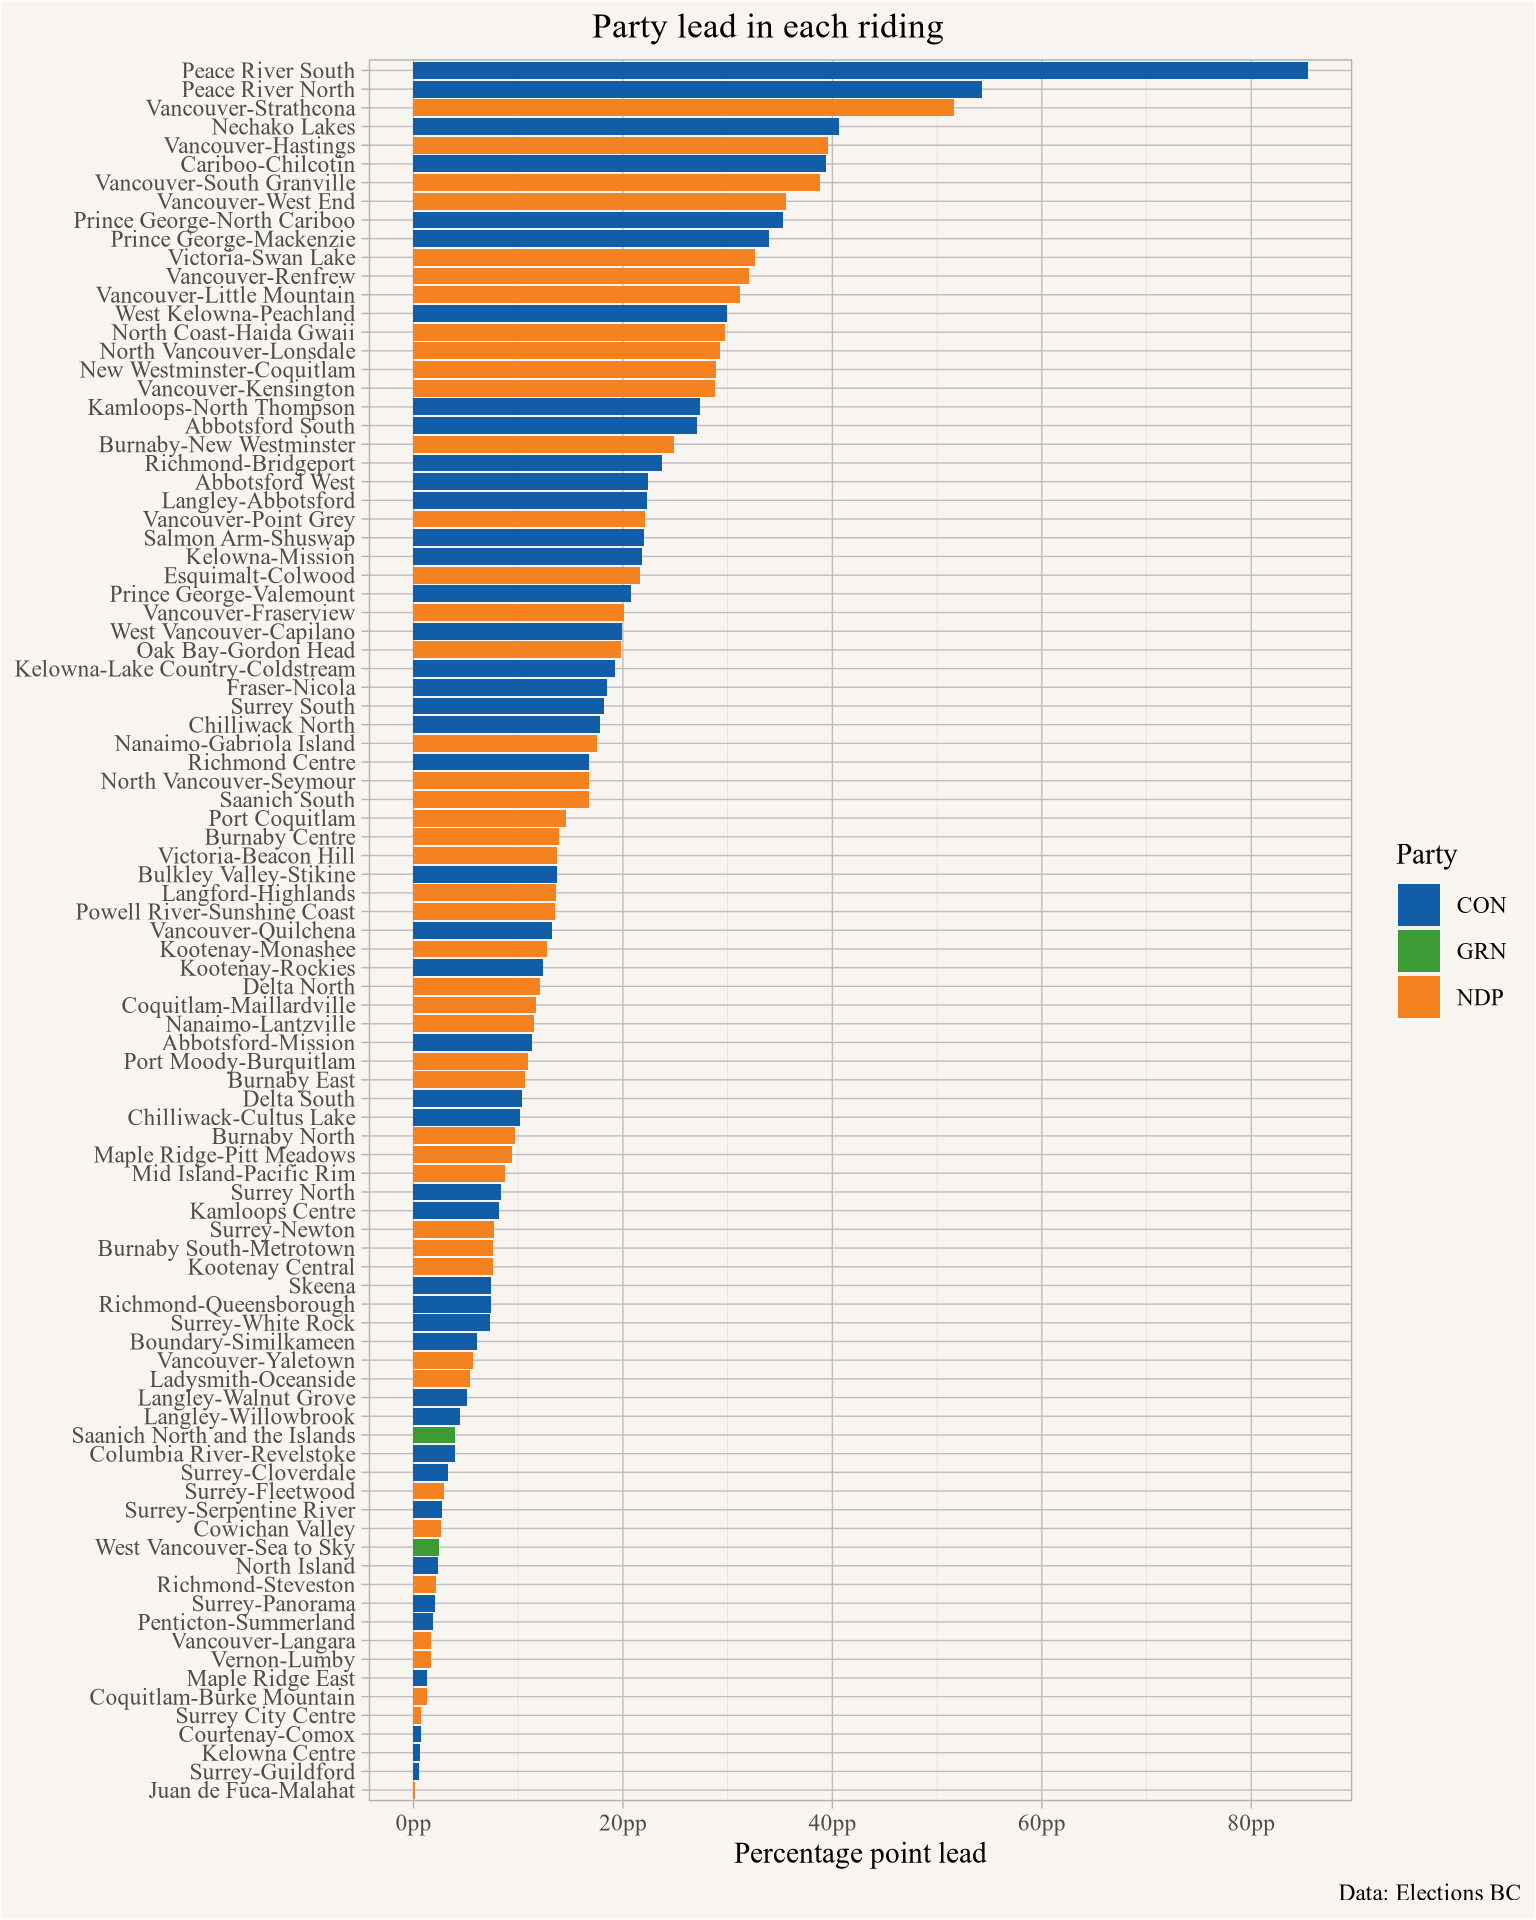
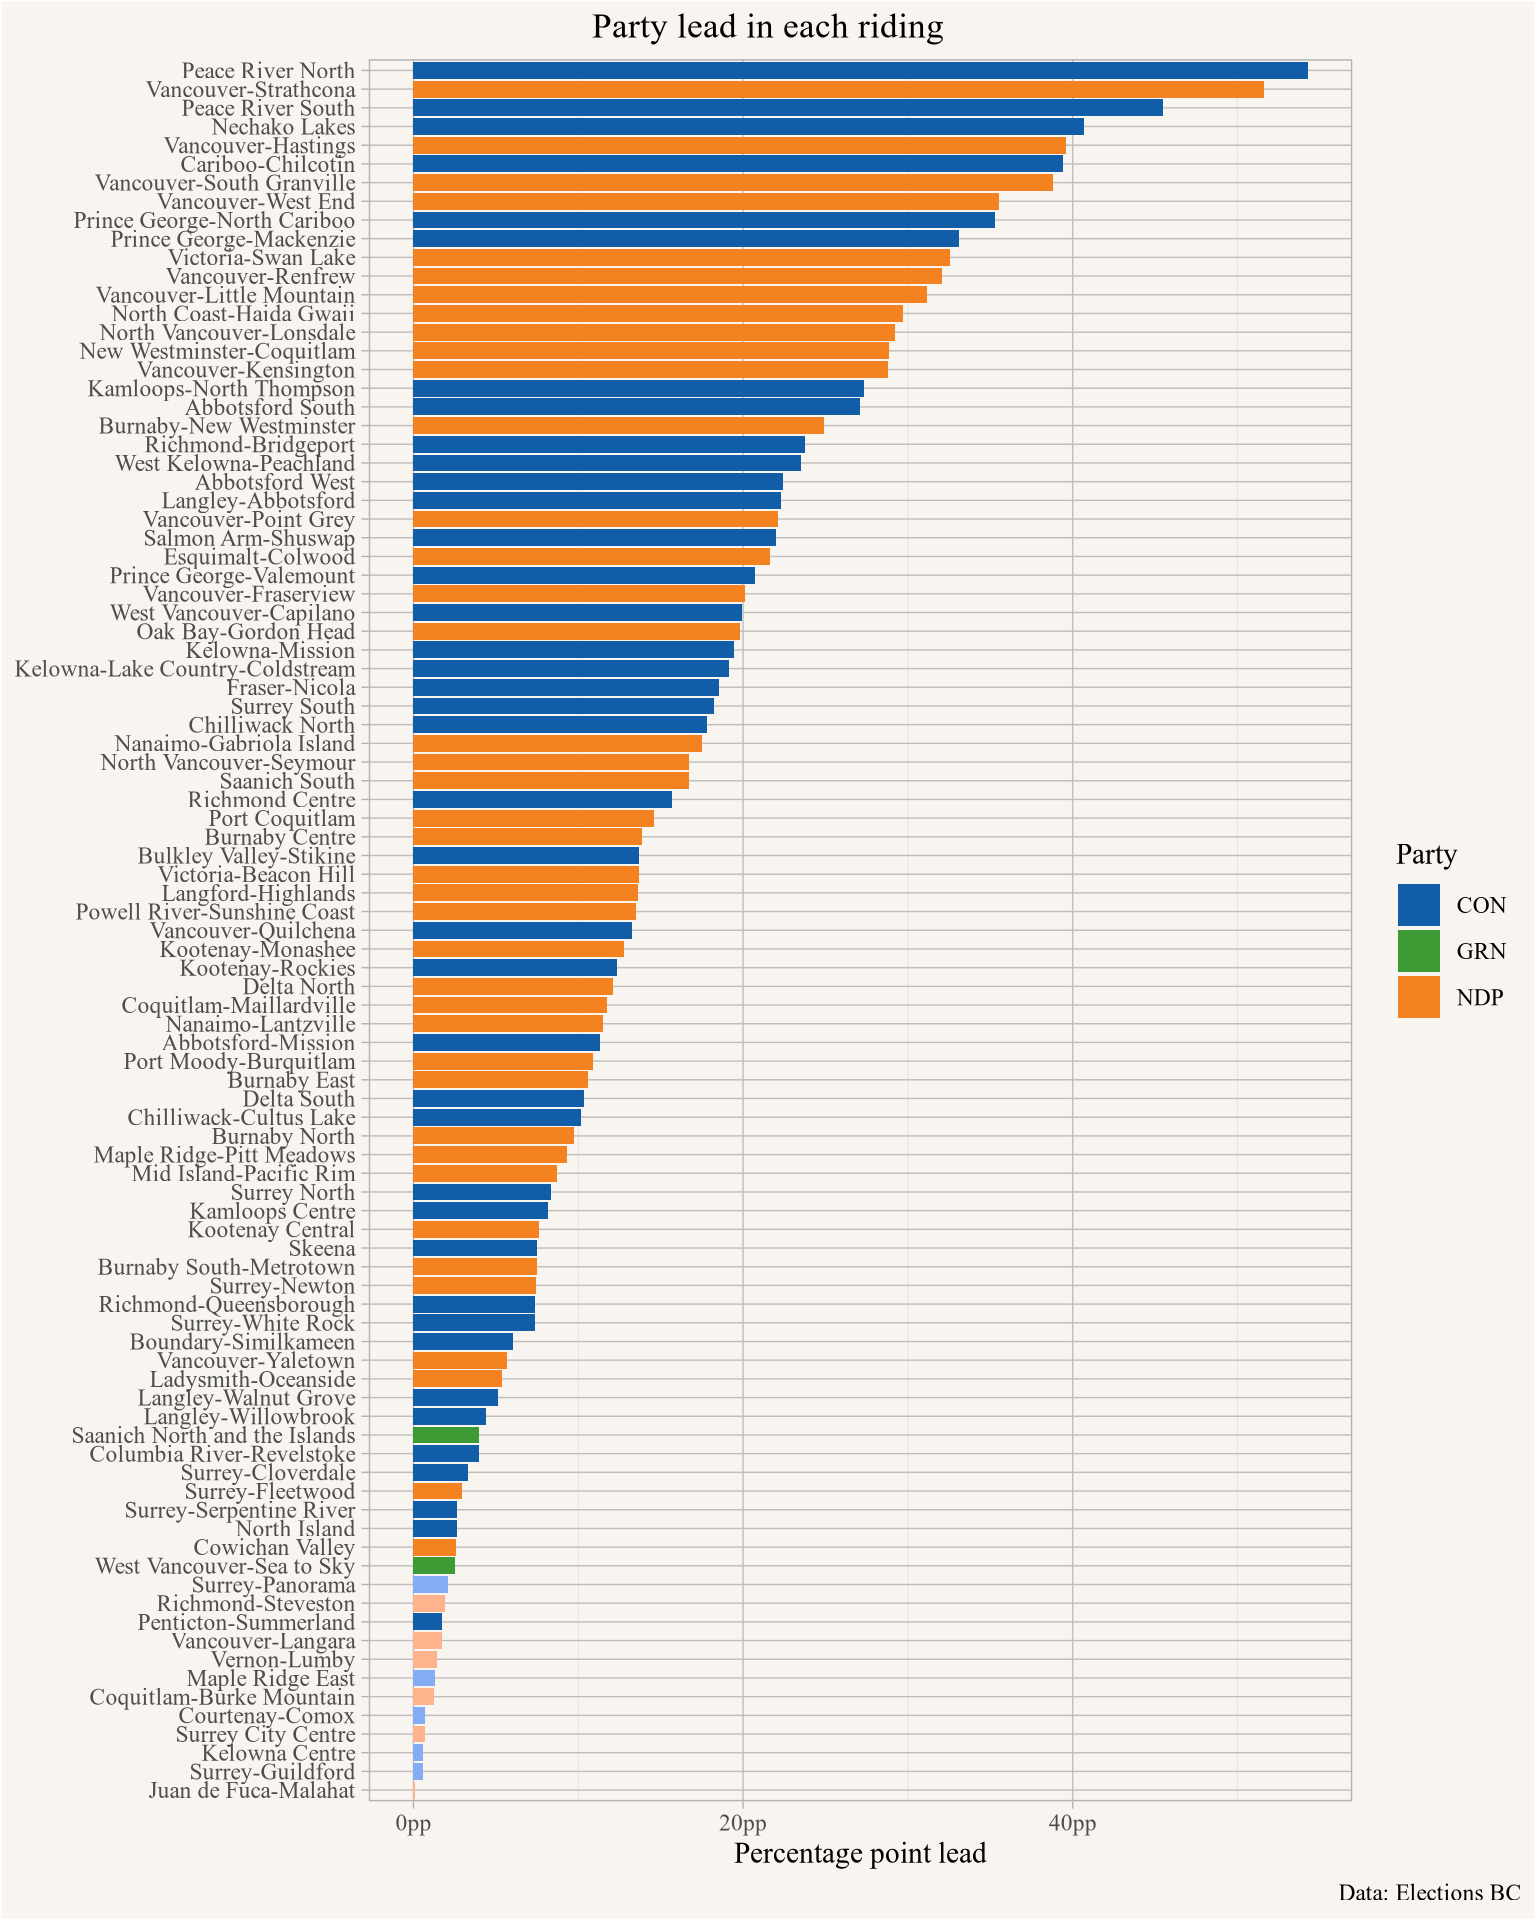
updated post with extra graph

diff --git a/posts/2024-10-20-bc-election-2024/index.html.md b/posts/2024-10-20-bc-election-2024/index.html.md
@@ -3,6 +3,7 @@ title: "BC Election 2024"
 author:
   - name: Jens von Bergmann
 date: '2024-10-20'
+last-modified: '2024-10-23'
 slug: bc-election-2024
 description: "A quick updated on the \"land doesn't vote, people do\" theme."
 image: 'images/land_vs_people.png'
@@ -13,7 +14,7 @@ code-tools:
   toggle: true
 fig-width: 8
 execute:
-  cache: true
+  cache: false
   message: false
   warning: false
 ---
@@ -66,8 +67,9 @@ results_raw <- rvest::read_html("https://electionsbcenr.blob.core.windows.net/el
   first() |>
   select(ED_NAME=`Electoral District`,Candidate=`Candidate's Ballot Name`,Party=Affiliation,Votes=`Total Valid Votes`,Share=`% of Votes`) |>
   mutate(ED_NAME = na_if(ED_NAME,"")) |>
-  fill(ED_NAME,.direction = "down") |>
-  mutate(across(c(Candidate,Party), ~na_if(.x,"") |> coalesce("Total"))) |>
+  fill(ED_NAME,.direction = "down") %>%
+  mutate(across(c(Candidate,Party), \(x)if_else(.$Candidate=="" & .$Party=="","Total",x))) |>
+  mutate(Party=if_else(Party=="","Unaffiliated",Party)) |>
   mutate(Votes=gsub(",","",Votes) |> as.numeric(),
          Share=as.numeric(gsub("\\%","",Share))/100) 
 
@@ -81,7 +83,7 @@ close_races <- c(
   "Richmond-Steveston",
   "Surrey City Centre",
   "Surrey-Guildford",
-  "Surrey-White Rock",
+  "Surrey-Panorama",
   "Vancouver-Langara",
   "Vernon-Lumby"
 )
@@ -116,7 +118,7 @@ With the data in hand^[We placed the data separately online to not interfere wit
 
 :::{.cell}
 
-```{.js .cell-code code-fold="undefined" startFrom="109" source-offset="0"}
+```{.js .cell-code code-fold="undefined" startFrom="111" source-offset="0"}
 vote_map_animation = {
   const height = width*ratio ;
   
@@ -152,7 +154,7 @@ vote_map_animation = {
   setInterval(() => {
     svg.selectAll(".bcDistrict")
       .transition()
-      .delay(d => d.properties.rank*10)
+      .delay(d => d.properties.rank*20)
       .duration(5000)
       .attrTween('d', function(d, i) {
         return flubber.toCircle(path(d), d.x, d.y, d.properties.radius, {maxSegmentLength: 2});
@@ -160,7 +162,7 @@ vote_map_animation = {
 
     svg.selectAll(".bcDistrict")
       .transition()
-      .delay(d => 10000 + d.properties.rank*10)
+      .delay(d => 10000 + d.properties.rank*20)
       .duration(5000)
       .attrTween('d', function(d, i) {
         return flubber.fromCircle(d.x, d.y, d.properties.radius, path(d), {maxSegmentLength: 2});
@@ -181,7 +183,7 @@ Land does not vote, people do
 
 
 
-The animation interpolates between the geographies of the ridings, and bubbles for each riding of size proportional to the total vote count. This visualized the degree to which the map view over-emphasizes rural areas which predominantly went to the Conservatives, whereas electoral districts with high population density and consequently lower area were predominantly won by the NDP.
+The animation interpolates between the geographies of the ridings, and bubbles for each riding of size proportional to the total vote count. This visualizes the degree to which the map view over-emphasizes rural areas, which predominantly went to the Conservatives, whereas electoral districts with high population density and consequently lower area were predominantly won by the NDP.
 
 
 ::: {.cell}
@@ -194,7 +196,7 @@ lead_results <- cleaned_results |>
          Total=sum(Votes)) |>
   slice_max(Votes,n=1) |>
   ungroup() |>
-  mutate(lead_share=lead/Total)
+  mutate(lead_share=lead/Total) 
 
 tightest_race <- lead_results |> slice_min(lead_share,n=1) 
 ```
@@ -215,10 +217,19 @@ party_colours <- c(
     IND="#676767",
     GRN="#3D9B35"
 )
+party_colours2 <- c(
+  CON="#83ACF5",
+    NDP="#FFB38D",
+    IND="#FFCBB8",
+    GRN="#84DA80"
+)
+
 
 lead_results |>
   ggplot(aes(x=lead_share,y=reorder(ED_NAME,lead_share),fill=Party))  +
   geom_bar(stat="identity") +
+  geom_bar(stat="identity", data=~filter(.,!called,Party=="NDP"),fill=party_colours2["NDP"]) +
+  geom_bar(stat="identity", data=~filter(.,!called,Party=="CON"),fill=party_colours2["CON"]) +
   scale_fill_manual(values=party_colours) +
   scale_x_continuous(labels=\(d)scales::percent(d,suffix="pp")) +
   labs(title="Party lead in each riding",
@@ -233,6 +244,34 @@ lead_results |>
 :::
 
 
+## Update (Oct 23, 2024)
+
+Elections BC is still regularly updating vote counts, for convenience we added a graph with just the 11 races that CBC has not yet called. We will updated this regularly as updated voting results come in.
+
+
+::: {.cell}
+
+```{.r .cell-code}
+lead_results |>
+  filter(!called) |>
+  ggplot(aes(x=lead_share,y=reorder(ED_NAME,lead_share),fill=Party))  +
+  geom_bar(stat="identity") +
+  geom_text(aes(label=scales::comma(lead,suffix=" vote lead"),hjust=ifelse(lead_share>0.01,1.1,-0.1))) +
+  scale_fill_manual(values=party_colours2) +
+  scale_x_continuous(labels=\(d)scales::percent(d,suffix="pp")) +
+  labs(title="Party lead in races CBC has not called yet",
+       x="Number of votes lead",
+       y=NULL,
+       caption="Data: Elections BC")
+```
+
+::: {.cell-output-display}
+![](index_files/figure-html/unnamed-chunk-4-1.png){width=768}
+:::
+:::
+
+
+
 
 <details>
 <summary>Remaining Observable code</summary>
@@ -242,7 +281,7 @@ lead_results |>
 
 :::{.cell}
 
-```{.js .cell-code code-fold="undefined" startFrom="208" source-offset="0"}
+```{.js .cell-code code-fold="undefined" startFrom="237" source-offset="0"}
 applySimulation = (nodes) => {
   const simulation = d3.forceSimulation(nodes)
     .force("cx", d3.forceX().x(d => width / 2).strength(0.02))
@@ -254,7 +293,7 @@ applySimulation = (nodes) => {
     .stop()
 
   let i = 0; 
-  while (simulation.alpha() > 0.01 && i < 200) {
+  while (simulation.alpha() > 0.01 && i < 250) {
     simulation.tick(); 
     i++;
     //console.log(`${Math.round(100*i/200)}%`)
@@ -273,7 +312,7 @@ applySimulation = (nodes) => {
 
 :::{.cell}
 
-```{.js .cell-code code-fold="undefined" startFrom="230" source-offset="0"}
+```{.js .cell-code code-fold="undefined" startFrom="259" source-offset="0"}
 spreadDistricts = applySimulation(districts)
 ```
 
@@ -286,7 +325,7 @@ spreadDistricts = applySimulation(districts)
 
 :::{.cell}
 
-```{.js .cell-code code-fold="undefined" startFrom="234" source-offset="0"}
+```{.js .cell-code code-fold="undefined" startFrom="263" source-offset="0"}
 maxRadius = 15
 ```
 
@@ -299,7 +338,7 @@ maxRadius = 15
 
 :::{.cell}
 
-```{.js .cell-code code-fold="undefined" startFrom="238" source-offset="0"}
+```{.js .cell-code code-fold="undefined" startFrom="267" source-offset="0"}
 ratio = 1
 ```
 
@@ -312,7 +351,7 @@ ratio = 1
 
 :::{.cell}
 
-```{.js .cell-code code-fold="undefined" startFrom="242" source-offset="0"}
+```{.js .cell-code code-fold="undefined" startFrom="271" source-offset="0"}
 nodePadding = 0.3
 ```
 
@@ -325,7 +364,7 @@ nodePadding = 0.3
 
 :::{.cell}
 
-```{.js .cell-code code-fold="undefined" startFrom="246" source-offset="0"}
+```{.js .cell-code code-fold="undefined" startFrom="275" source-offset="0"}
 party_colors = {
   return {
     CON:"#115DA8",
@@ -345,7 +384,7 @@ party_colors = {
 
 :::{.cell}
 
-```{.js .cell-code code-fold="undefined" startFrom="257" source-offset="0"}
+```{.js .cell-code code-fold="undefined" startFrom="286" source-offset="0"}
 party_colors2 = {
   return {
     CON:"#83ACF5",
@@ -365,7 +404,7 @@ party_colors2 = {
 
 :::{.cell}
 
-```{.js .cell-code code-fold="undefined" startFrom="270" source-offset="0"}
+```{.js .cell-code code-fold="undefined" startFrom="299" source-offset="0"}
 format = ({
   density: (x) => x > 1000 ? d3.format(".2s")(x) : d3.format(".3r")(x),
   percent: d3.format(".1%"),
@@ -382,7 +421,7 @@ format = ({
 
 :::{.cell}
 
-```{.js .cell-code code-fold="undefined" startFrom="278" source-offset="0"}
+```{.js .cell-code code-fold="undefined" startFrom="307" source-offset="0"}
 projection = d3.geoIdentity().reflectY(true).fitSize([960, 600], {type: "FeatureCollection", features: districts})
 ```
 
@@ -395,7 +434,7 @@ projection = d3.geoIdentity().reflectY(true).fitSize([960, 600], {type: "Feature
 
 :::{.cell}
 
-```{.js .cell-code code-fold="undefined" startFrom="282" source-offset="0"}
+```{.js .cell-code code-fold="undefined" startFrom="311" source-offset="0"}
 districts = bc_districts.features
 ```
 
@@ -408,7 +447,7 @@ districts = bc_districts.features
 
 :::{.cell}
 
-```{.js .cell-code code-fold="undefined" startFrom="286" source-offset="0"}
+```{.js .cell-code code-fold="undefined" startFrom="315" source-offset="0"}
 bc_districts = { 
   const url = "https://mountainmath.s3.ca-central-1.amazonaws.com/bc_2024_elections/district_boundaries.geojson";
   const bc_districts = await d3.json(url);
@@ -454,7 +493,7 @@ bc_districts = {
 
 :::{.cell}
 
-```{.js .cell-code code-fold="undefined" startFrom="324" source-offset="0"}
+```{.js .cell-code code-fold="undefined" startFrom="353" source-offset="0"}
 d3 = require("d3@5")
 ```
 
@@ -467,7 +506,7 @@ d3 = require("d3@5")
 
 :::{.cell}
 
-```{.js .cell-code code-fold="undefined" startFrom="328" source-offset="0"}
+```{.js .cell-code code-fold="undefined" startFrom="357" source-offset="0"}
 turf = require("@turf/turf@5")
 ```
 
@@ -480,7 +519,7 @@ turf = require("@turf/turf@5")
 
 :::{.cell}
 
-```{.js .cell-code code-fold="undefined" startFrom="332" source-offset="0"}
+```{.js .cell-code code-fold="undefined" startFrom="361" source-offset="0"}
 flubber = require('https://unpkg.com/flubber')
 ```
 
@@ -513,7 +552,7 @@ Sys.time()
 ::: {.cell-output .cell-output-stdout}
 
 ```
-[1] "2024-10-21 09:11:27 PDT"
+[1] "2024-10-24 12:17:12 PDT"
 ```
 
 
@@ -529,7 +568,7 @@ git2r::repository()
 ```
 Local:    main /Users/jens/R/mountain_doodles
 Remote:   main @ origin (https://github.com/mountainMath/mountain_doodles.git)
-Head:     [d9bf59a] 2024-10-21: keep relevant fields in geographies
+Head:     [f50750a] 2024-10-21: try fontawesome to get bsky logo into nav bar
 ```
 
 
@@ -560,25 +599,41 @@ tzcode source: internal
 attached base packages:
 [1] stats     graphics  grDevices utils     datasets  methods   base     
 
+other attached packages:
+ [1] sf_1.0-16                 mountainmathHelpers_0.1.4
+ [3] lubridate_1.9.3           forcats_1.0.0            
+ [5] stringr_1.5.1             dplyr_1.1.4              
+ [7] purrr_1.0.2               readr_2.1.5              
+ [9] tidyr_1.3.1               tibble_3.2.1             
+[11] ggplot2_3.5.1             tidyverse_2.0.0          
+
 loaded via a namespace (and not attached):
- [1] vctrs_0.6.5               cli_3.6.3                
- [3] knitr_1.48                rlang_1.1.4              
- [5] xfun_0.47                 generics_0.1.3           
- [7] jsonlite_1.8.8            glue_1.8.0               
- [9] colorspace_2.1-0          git2r_0.33.0             
-[11] htmltools_0.5.8.1         mountainmathHelpers_0.1.4
-[13] scales_1.3.0              fansi_1.0.6              
-[15] rmarkdown_2.28            grid_4.4.1               
-[17] munsell_0.5.1             evaluate_1.0.0           
-[19] tibble_3.2.1              fastmap_1.2.0            
-[21] yaml_2.3.10               lifecycle_1.0.4          
-[23] compiler_4.4.1            dplyr_1.1.4              
-[25] htmlwidgets_1.6.4         pkgconfig_2.0.3          
-[27] rstudioapi_0.16.0         digest_0.6.37            
-[29] R6_2.5.1                  tidyselect_1.2.1         
-[31] utf8_1.2.4                pillar_1.9.0             
-[33] magrittr_2.0.3            tools_4.4.1              
-[35] gtable_0.3.5              ggplot2_3.5.1            
+ [1] tidyselect_1.2.1    farver_2.1.2        R.utils_2.12.3     
+ [4] fastmap_1.2.0       promises_1.3.0      cancensus_0.5.8    
+ [7] digest_0.6.37       timechange_0.3.0    mime_0.12          
+[10] lifecycle_1.0.4     processx_3.8.4      magrittr_2.0.3     
+[13] compiler_4.4.1      rlang_1.1.4         tools_4.4.1        
+[16] utf8_1.2.4          yaml_2.3.10         knitr_1.48         
+[19] labeling_0.4.3      htmlwidgets_1.6.4   bit_4.0.5          
+[22] sp_2.1-4            classInt_0.4-10     curl_5.2.2         
+[25] aws.signature_0.6.0 xml2_1.3.6          KernSmooth_2.23-24 
+[28] websocket_1.4.1     withr_3.0.1         R.oo_1.26.0        
+[31] grid_4.4.1          fansi_1.0.6         git2r_0.33.0       
+[34] e1071_1.7-14        colorspace_2.1-0    scales_1.3.0       
+[37] cli_3.6.3           rmarkdown_2.28      crayon_1.5.2       
+[40] generics_0.1.3      rstudioapi_0.16.0   httr_1.4.7         
+[43] tzdb_0.4.0          DBI_1.2.3           chromote_0.2.0     
+[46] proxy_0.4-27        rvest_1.0.4         parallel_4.4.1     
+[49] selectr_0.4-2       base64enc_0.1-3     vctrs_0.6.5        
+[52] V8_4.4.2            jsonlite_1.8.8      geojsonsf_2.0.3    
+[55] hms_1.1.3           bit64_4.0.5         rmapshaper_0.5.0   
+[58] units_0.8-5         glue_1.8.0          ps_1.7.6           
+[61] stringi_1.8.4       gtable_0.3.5        later_1.3.2        
+[64] aws.s3_0.3.21       munsell_0.5.1       pillar_1.9.0       
+[67] htmltools_0.5.8.1   R6_2.5.1            vroom_1.6.5        
+[70] evaluate_1.0.0      lattice_0.22-6      R.methodsS3_1.8.2  
+[73] class_7.3-22        Rcpp_1.0.13         xfun_0.47          
+[76] pkgconfig_2.0.3    
 ```
 
 
